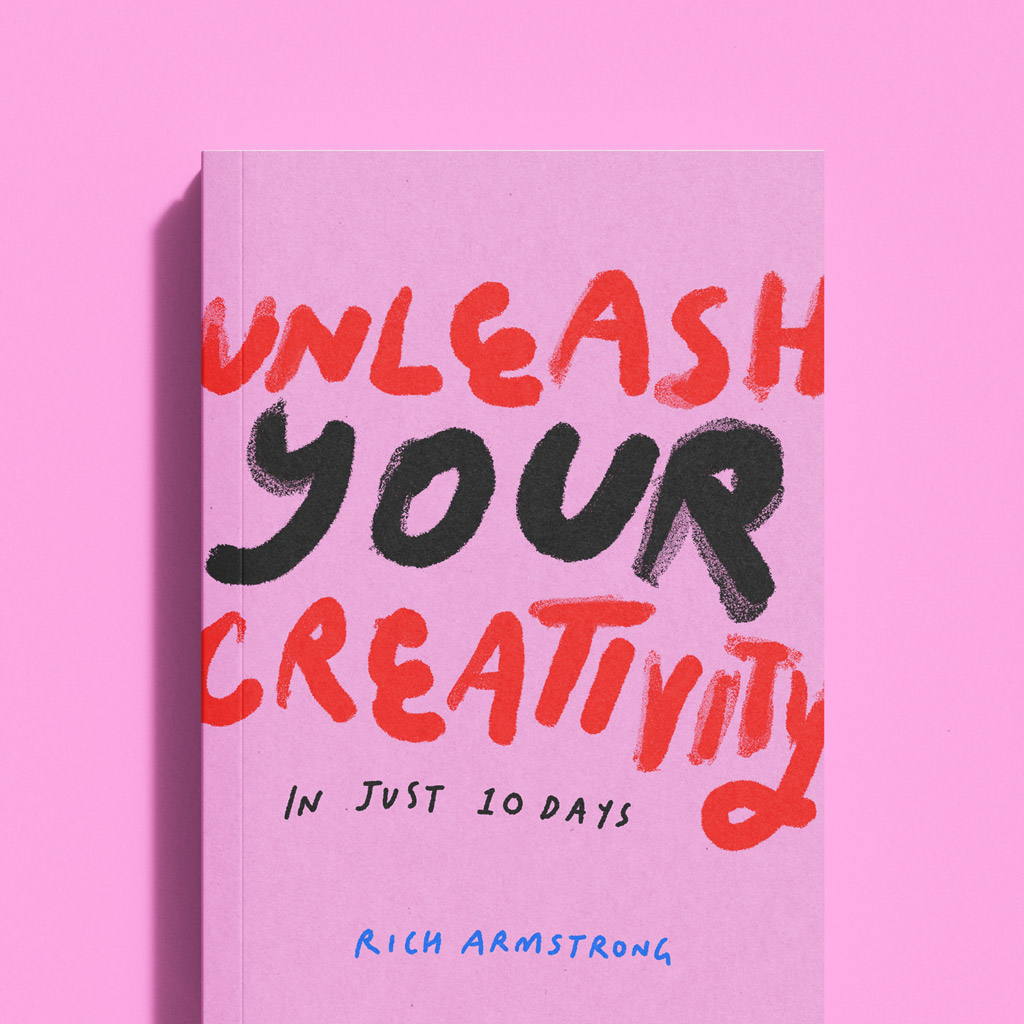
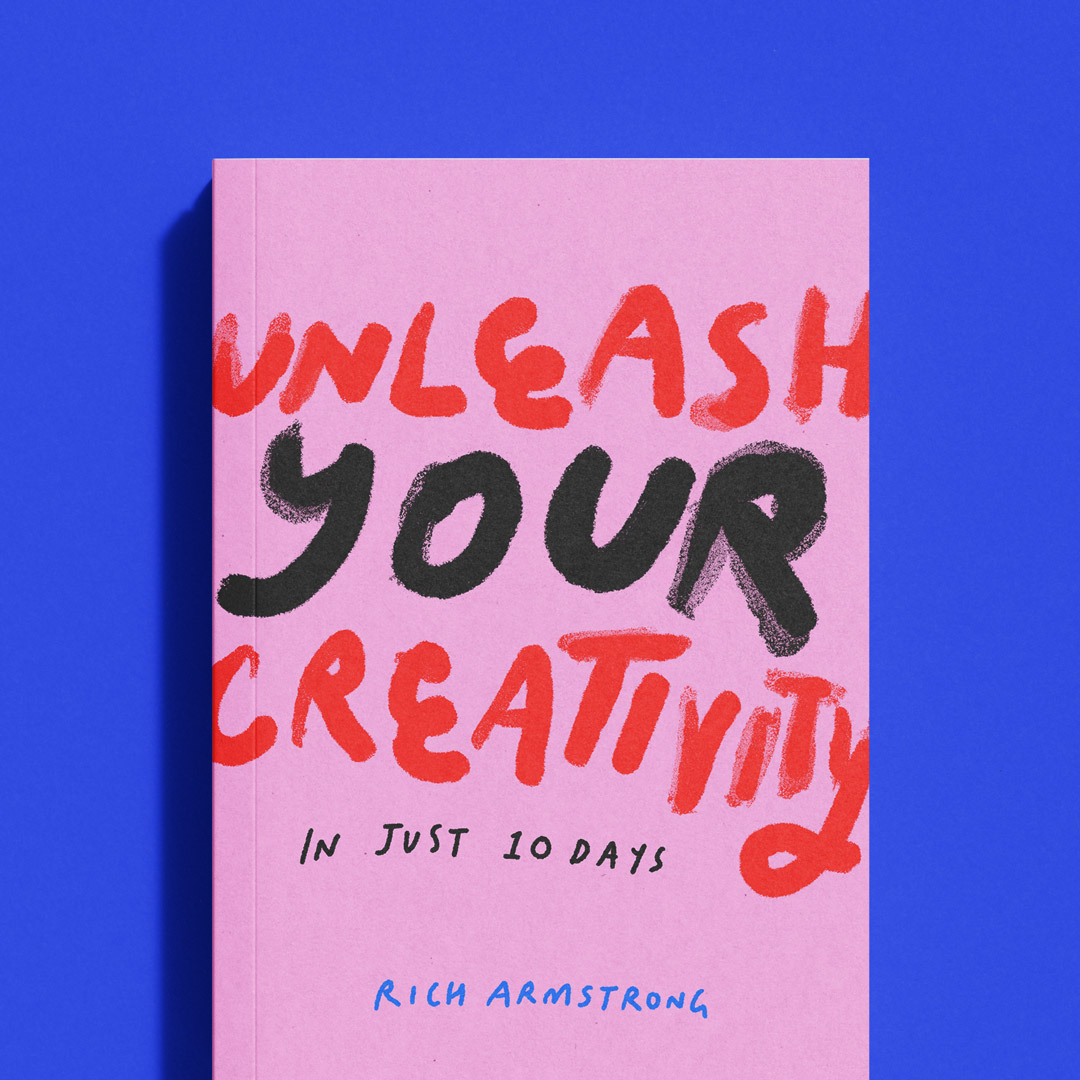
Update unleash your creativity thumb bg

diff --git a/_learn/unleash-your-creativity.md b/_learn/unleash-your-creativity.md
@@ -5,7 +5,7 @@ description: This 60 page book will transform your grey squishy thing into a cre
 external_url: https://heyrich.net/unleash
 date: 2016-02-24
 updated: 2025-04-30
-image: "img/unleash-your-creativity-thumb.jpg"
+image: "img/unleash-your-creativity-thumb.jpg?v=1"
 background_color: "#fea9e2"
 categories: ['Creativity']
 tags: ['Creative exercises']
